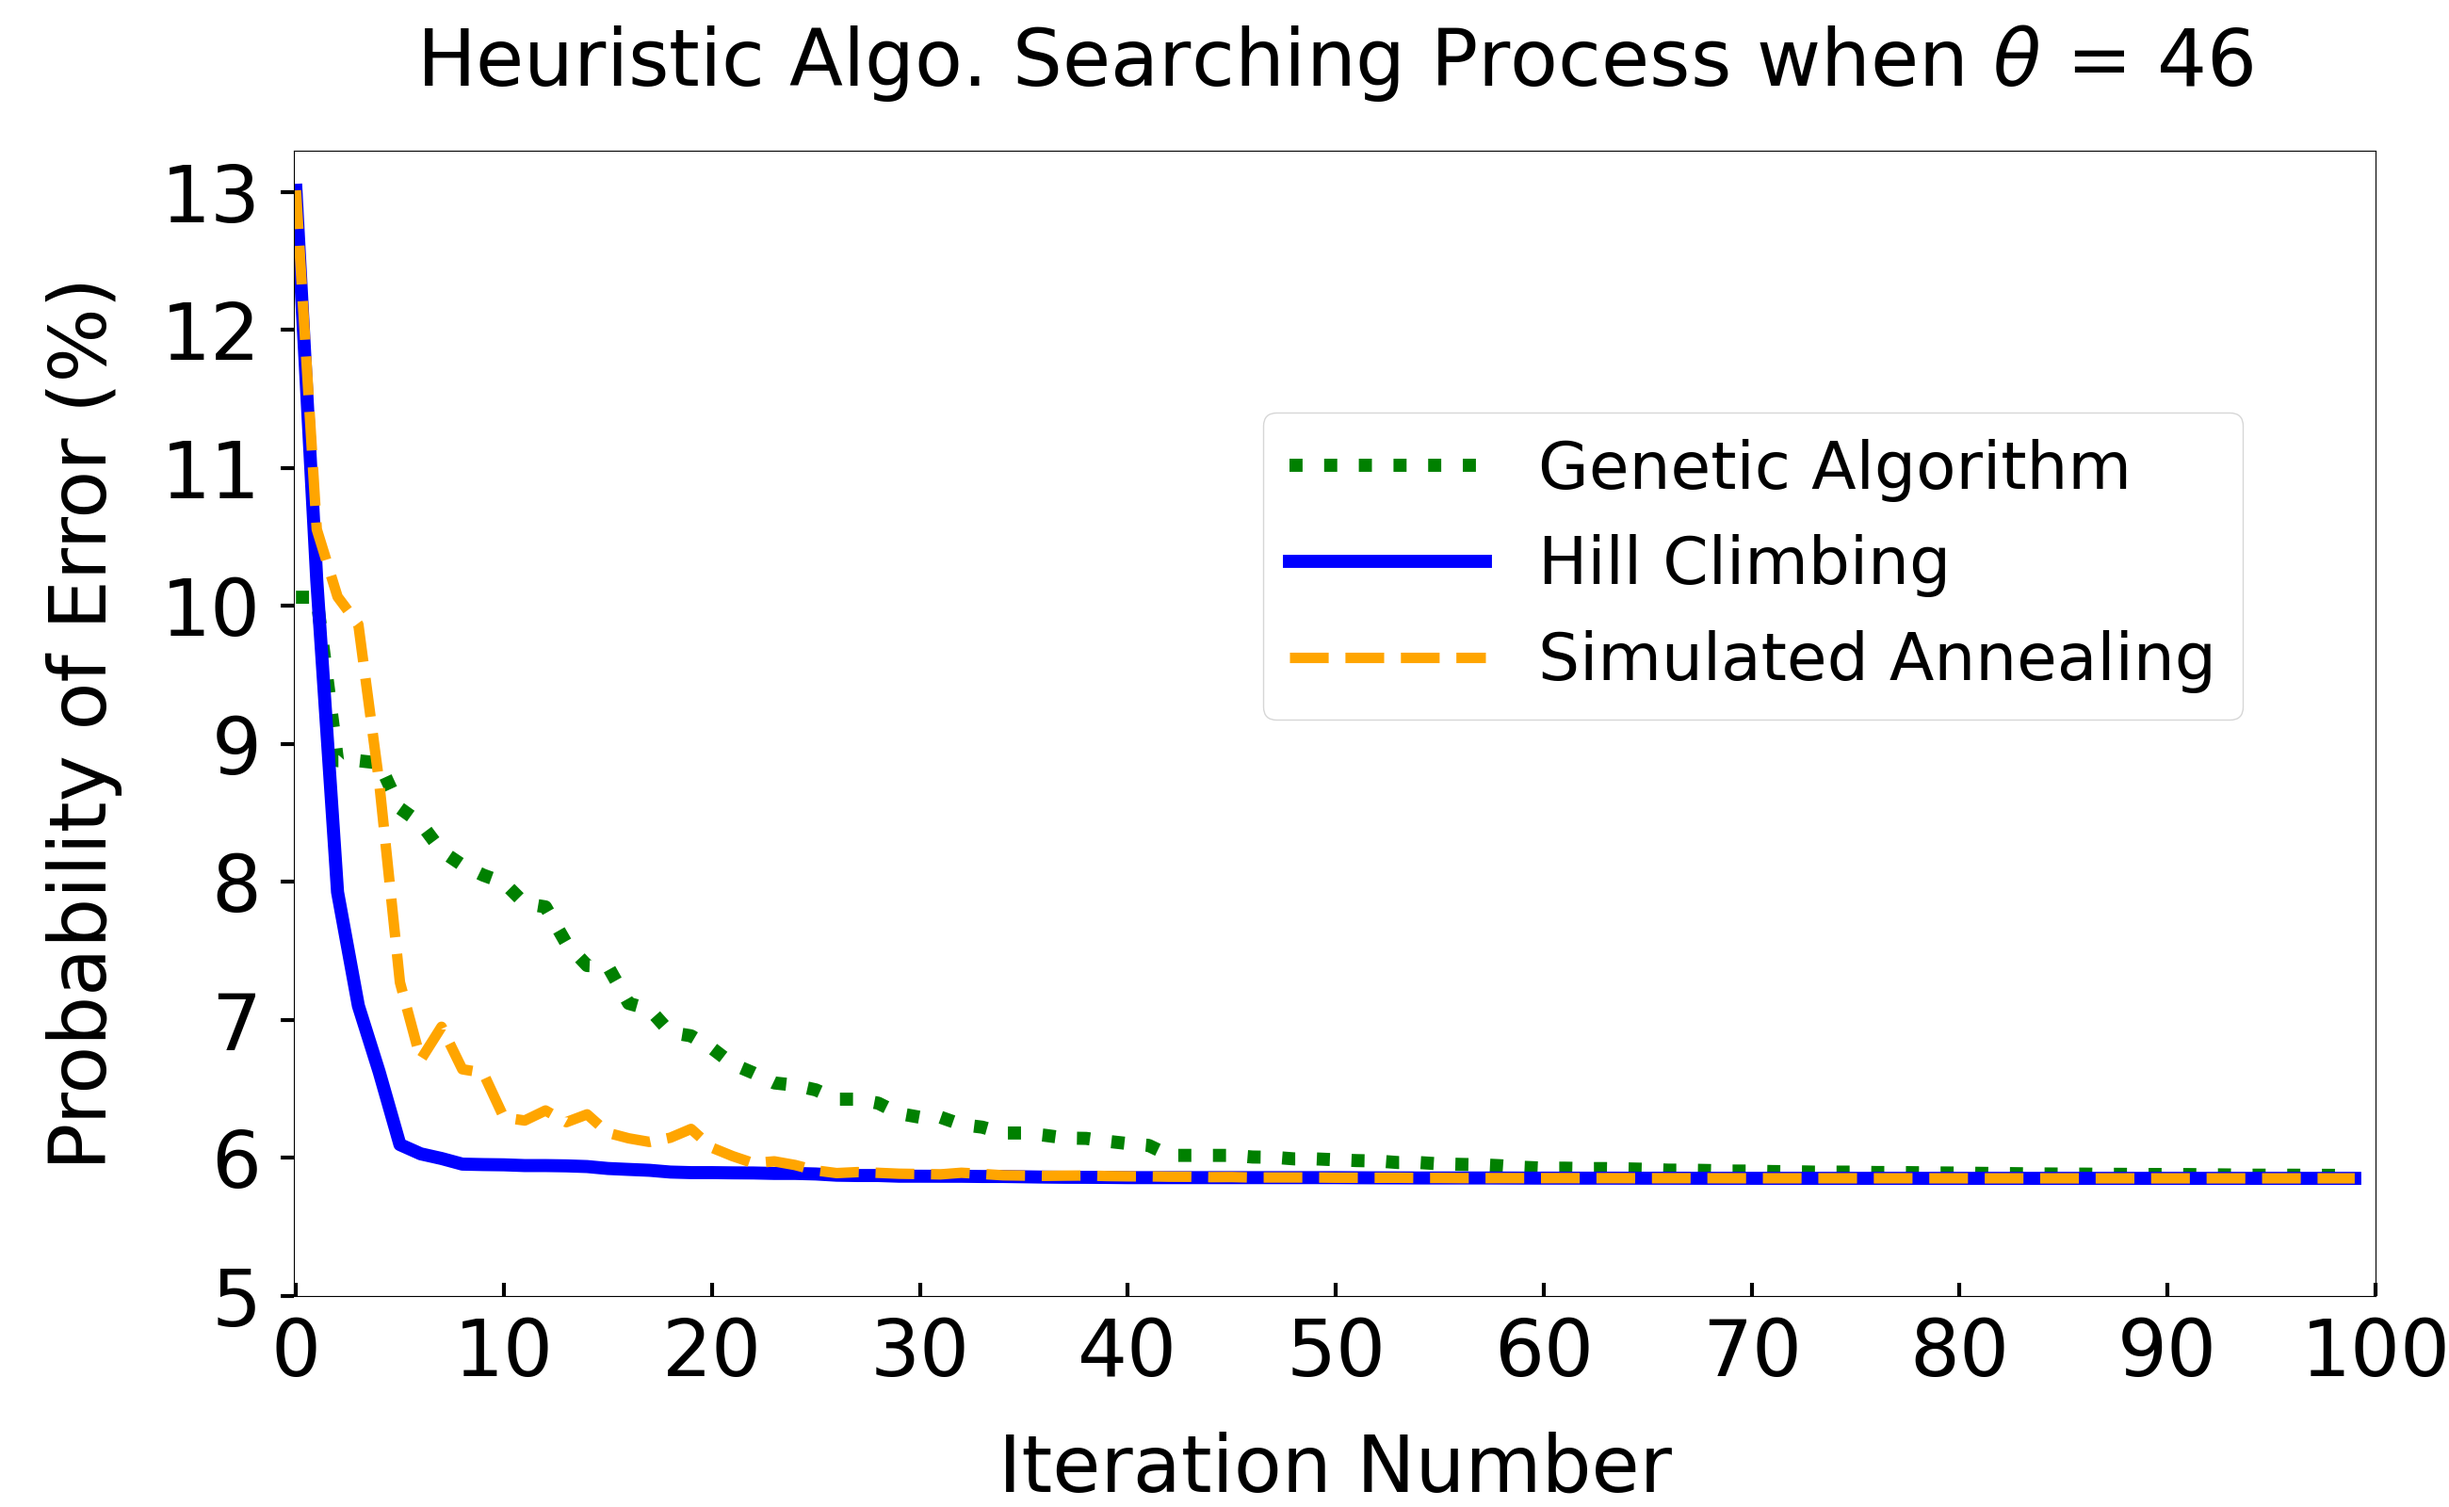
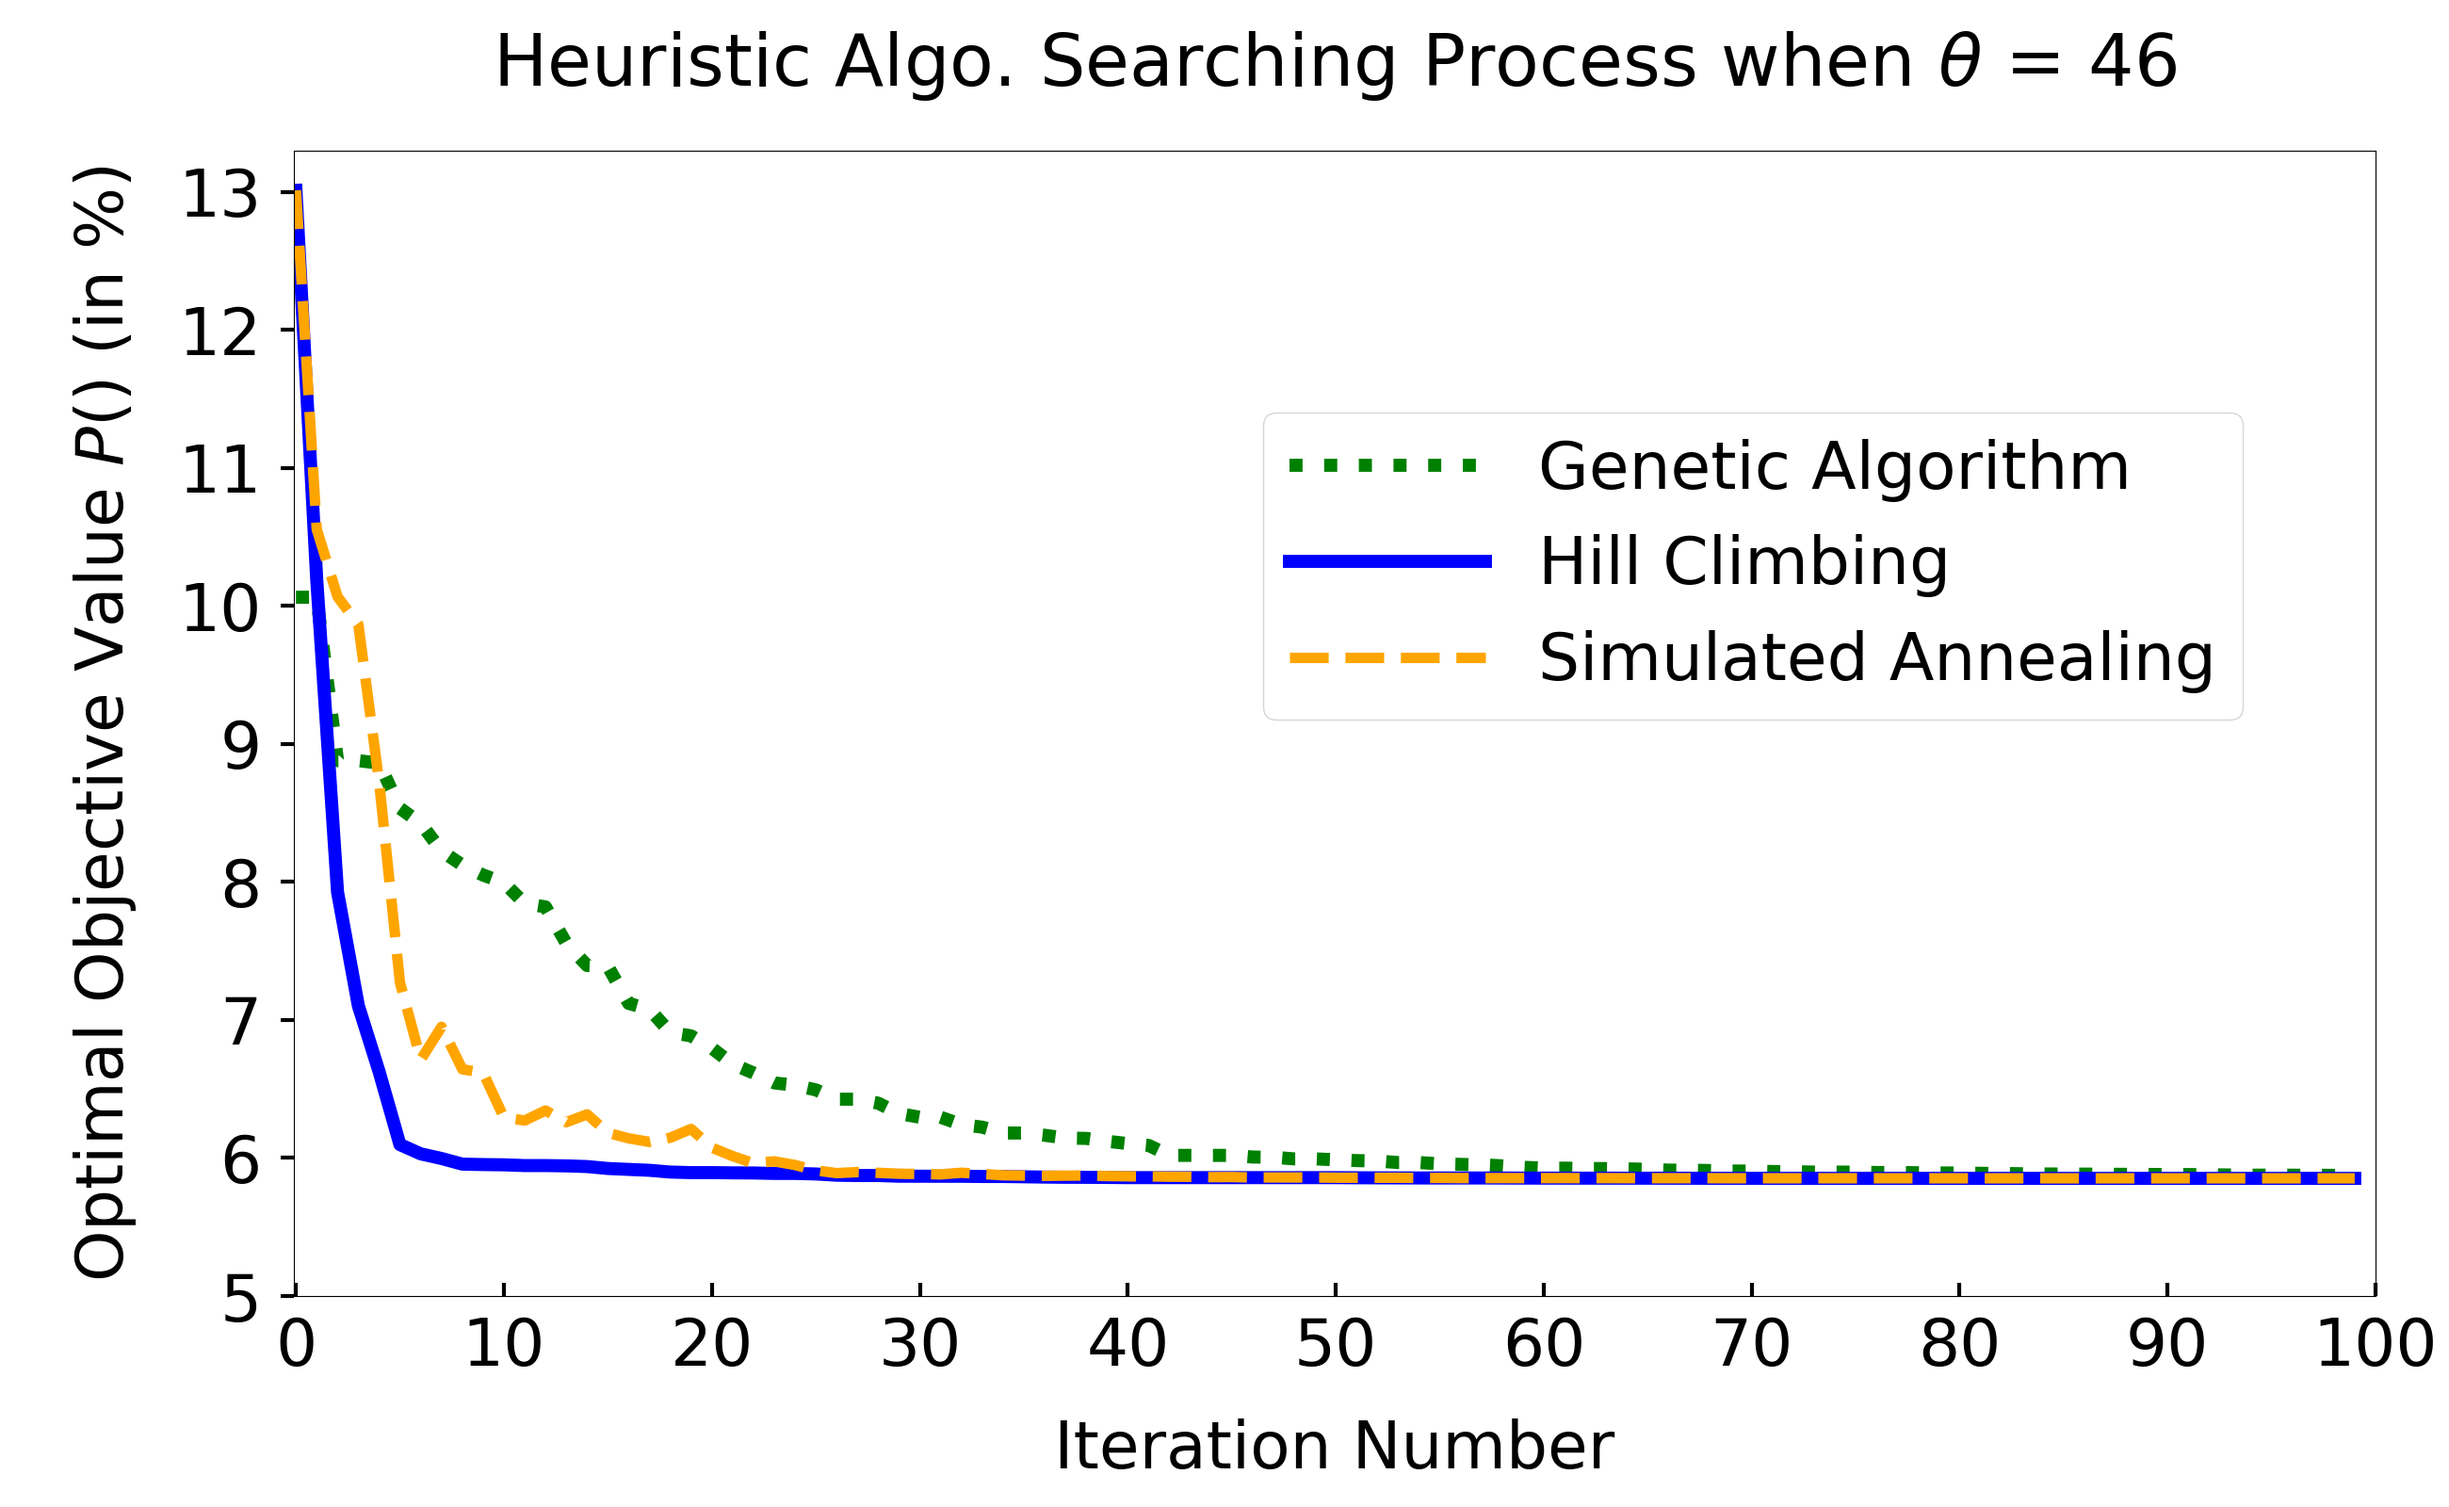
update plots

diff --git a/plot.py b/plot.py
@@ -164,7 +164,7 @@ class Plot:
         ax.set_title('Empirical Validation of Search Heuristics', fontsize=65, pad=40)
         ax.legend(ncol=2, loc='upper right',  fontsize=55, handlelength=3.5, edgecolor='black')
         ax.set_xlabel('$\\theta$ (degree)', labelpad=15)
-        ax.set_ylabel('Probability of Error (%)', fontsize=60)
+        ax.set_ylabel('Optimal Objective Value $P()$ (in %)', fontsize=60, labelpad=10)
         fig.savefig(filename)
 
 
@@ -191,16 +191,16 @@ class Plot:
         ax.legend(fontsize=50, bbox_to_anchor=(0.45, 0.8), handlelength=3)
         xticks = [i for i in range(0, 101, 10)]
         ax.set_xticks(xticks)
-        ax.set_xticklabels([f'{x}' for x in xticks])
+        ax.set_xticklabels([f'{x}' for x in xticks], fontsize=50)
         yticks = [0.05, 0.06, 0.07, 0.08, 0.09, 0.1, 0.11, 0.12, 0.13]
         ax.set_yticks(yticks)
-        ax.set_yticklabels([f'{int(y * 100)}' for y in yticks])
+        ax.set_yticklabels([f'{int(y * 100)}' for y in yticks], fontsize=50)
         ax.tick_params(axis='x', direction='in',  length=10, width=3, pad=15)
         ax.tick_params(axis='y', direction='out', length=10, width=3, pad=15)
-        ax.set_title('Heuristic Algo. Searching Process when $\\theta$ = 46', fontsize=60, pad=50)
-        ax.set_xlabel('Iteration Number', labelpad=30)
+        ax.set_title('Heuristic Algo. Searching Process when $\\theta$ = 46', fontsize=55, pad=50)
+        ax.set_xlabel('Iteration Number', labelpad=30, fontsize=50)
         ax.set_xlim([-0.1, 100])
-        ax.set_ylabel('Probability of Error (%)', fontsize=60, labelpad=30)
+        ax.set_ylabel('Optimal Objective Value $P()$ (in %)', fontsize=50, labelpad=30)
         ax.set_ylim([0.05, 0.133])
         ax.annotate('Random Initial State', xy=(0.5, 0.189), xytext=(5, 0.189), arrowprops=arrowprops, fontsize=50, va='center')
         fig.savefig(filename)
@@ -230,7 +230,7 @@ class Plot:
             axes[i].tick_params(axis='y', direction='in', length=10, width=4)
             axes[i].tick_params(pad=10)
         
-        fig.supylabel('Probability of Error (%)')
+        fig.supylabel('Optimal Objective Value $P()$ (in %)')
         # fig.supxlabel('Theta (degree)')
         fig.suptitle('$Conjecture\ 2$: The Averaged Initial States Have Lower $PoE$', fontsize=75)
         fig.savefig(filename)
@@ -457,7 +457,7 @@ class Plot:
         ax.set_title('Empirical Validation of $Conjecture$ 1', fontsize=65, pad=40)
         ax.legend(ncol=2, loc='upper right',  fontsize=55, handlelength=3.5, edgecolor='black')
         ax.set_xlabel('$\\theta$ (degree)', labelpad=15)
-        ax.set_ylabel('Probability of Error (%)', fontsize=60)
+        ax.set_ylabel('Optimal Objective Value $P()$ (in %)', fontsize=60)
         fig.savefig(filename)
 
 
@@ -547,8 +547,8 @@ class Plot:
                 if myinput.unitary_theta == theta:
                     table[key.format(method, output.start_seed)].append(output.symmetries)                     # [0] is symmetry
                     table[key.format(method, output.start_seed)].append((1 - np.array(output.scores)) * 100)   # [1] is poe
-        fig, ax = plt.subplots(figsize=(26, 16))
-        fig.subplots_adjust(left=0.13, right=0.98, top=0.9, bottom=0.14)
+        fig, ax = plt.subplots(figsize=(22, 16))
+        fig.subplots_adjust(left=0.115, right=0.98, top=0.9, bottom=0.14)
         methods = ['Hill climbing', 'Simulated annealing', 'Genetic algorithm']
         seeds = [0, 1, 2, 3, 4]
         for seed in seeds:
@@ -559,15 +559,15 @@ class Plot:
                     ax.scatter(table[key.format(method, seed)][0], table[key.format(method, seed)][1], color=Plot.COLOR[method], s=120)
         ax.legend(fontsize=40, facecolor='lightgray', markerscale=2)
         ax.set_xlabel('Symmetry Index', labelpad=20)
-        ax.set_ylabel('$PoE$ (%)', labelpad=20)
+        ax.set_ylabel('Optimal Objective Value $P()$ (in %)', labelpad=20, fontsize=53)
         ax.set_xlim([0, 0.82])
         xticks = [0, 0.2, 0.4, 0.6, 0.8]
         ax.set_xticks(xticks)
         ax.set_xticklabels([str(x) for x in xticks])
         ax.invert_xaxis()
         ax.set_ylim([4, 18])
-        ax.set_title('$PoE$ (%) and Symmetry Index', fontsize=60, pad=40)
-        ax.tick_params(axis='x', direction='in', length=10, width=3, pad=15)
+        ax.set_title('$P()$ (in %) and Symmetry Index', fontsize=60, pad=40)
+        ax.tick_params(axis='x', direction='in', length=10, width=3, pad=25)
         ax.tick_params(axis='y', direction='in', length=10, width=3, pad=15)
         fig.savefig(filename)
 
@@ -582,8 +582,8 @@ class Plot:
                 if myinput.unitary_theta == theta:
                     table[key.format(method, output.start_seed)].append(output.symmetries)                     # [0] is symmetry
                     table[key.format(method, output.start_seed)].append((1 - np.array(output.scores)) * 100)   # [1] is poe
-        fig, ax = plt.subplots(figsize=(26, 16))
-        fig.subplots_adjust(left=0.13, right=0.98, top=0.9, bottom=0.14)
+        fig, ax = plt.subplots(figsize=(22, 16))
+        fig.subplots_adjust(left=0.115, right=0.985, top=0.9, bottom=0.14)
         methods = ['Hill climbing', 'Simulated annealing', 'Genetic algorithm']
         seeds = [0, 1, 2, 3, 4]
         for seed in seeds:
@@ -594,16 +594,16 @@ class Plot:
                     ax.scatter(table[key.format(method, seed)][0], table[key.format(method, seed)][1], color=Plot.COLOR[method], s=120)
         ax.legend(fontsize=40, facecolor='lightgray', markerscale=2)
         ax.set_xlabel('Symmetry Index', labelpad=20)
-        ax.set_ylabel('$PoE$ (%)', labelpad=20)
+        # ax.set_ylabel('$PoE$ (%)', labelpad=20)
         ax.set_xlim([0, 0.082])
         ax.set_ylim([4.34, 4.44])
         xticks = [0, 0.02, 0.04, 0.06, 0.08]
         ax.set_xticks(xticks)
         ax.set_xticklabels([str(x) for x in xticks])
         ax.invert_xaxis()
-        ax.tick_params(axis='x', direction='in', length=10, width=3, pad=15)
+        ax.tick_params(axis='x', direction='in', length=10, width=3, pad=25)
         ax.tick_params(axis='y', direction='in', length=10, width=3, pad=15)
-        ax.set_title('$PoE$ (%) and Symmetry Index', fontsize=60, pad=40)
+        ax.set_title('$P()$ (in %) and Symmetry Index', fontsize=60, pad=40)
         fig.savefig(filename)
 
 
@@ -901,10 +901,10 @@ def symmetry():
     Plot.symmetry_varymethod(data, filename.format('method'))
     Plot.symmetry_varytheta(data, filename.format('theta'))
 
-    # filename = 'result/5.22.2023/poe_symmetry.png'
-    # Plot.symmetry_poe_varymethod(data, filename)
-    # filename = 'result/5.22.2023/poe_symmetry_zoomin.png'
-    # Plot.symmetry_poe_varymethod_zoomin(data, filename)
+    filename = 'result/5.22.2023/poe_symmetry.png'
+    Plot.symmetry_poe_varymethod(data, filename)
+    filename = 'result/5.22.2023/poe_symmetry_zoomin.png'
+    Plot.symmetry_poe_varymethod_zoomin(data, filename)
 
 
 def unambiguous_vary_theta():
@@ -920,7 +920,10 @@ if __name__ == '__main__':
     # vary_theta()
     # methods_similar()
     # lemma2()
-    # lemma3()
-    # conjecture()
-    symmetry()
+    conjecture()
+    # symmetry()
+
+
+    # not used #
     # unambiguous_vary_theta()
+    # lemma3()
